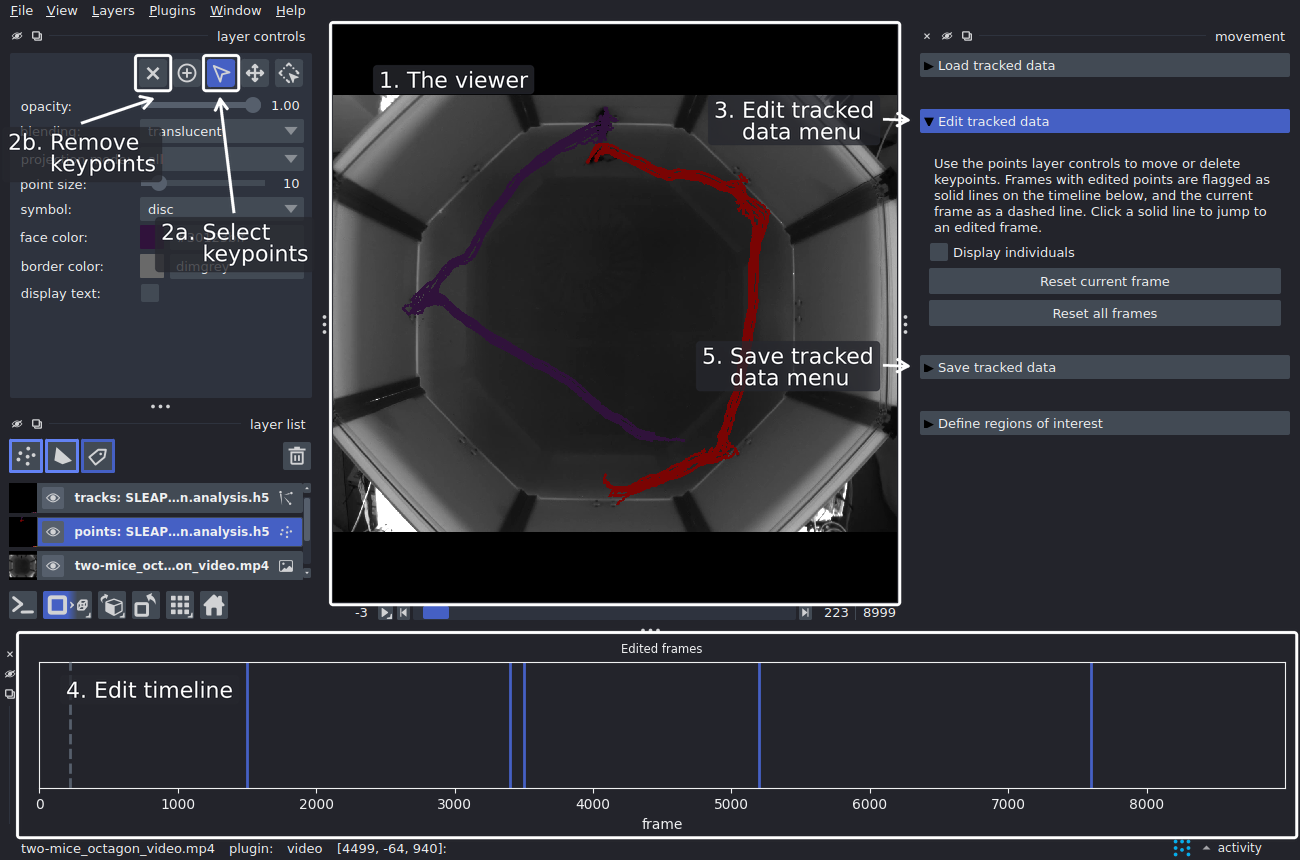
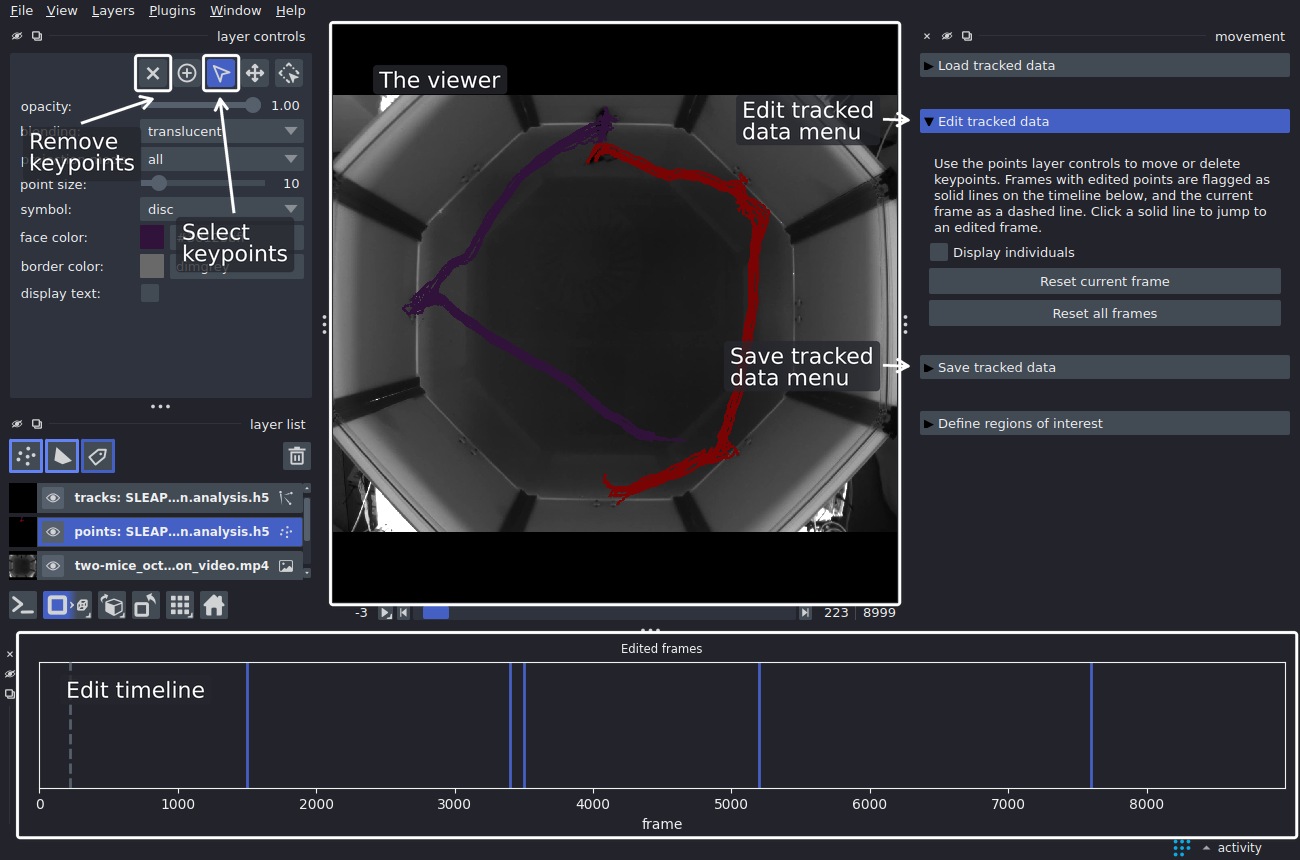
removing numbers

diff --git a/docs/make_gui_screenshots.py b/docs/make_gui_screenshots.py
@@ -919,35 +919,35 @@ def edit_overview(out: Path) -> Path:
 
     controls = gui.layer_controls(points)
     labels = [
-        Label(gui.canvas, "1. The viewer", side="inside"),
+        Label(gui.canvas, "The viewer", side="inside"),
         # Below the buttons, one lower than the other so they do not overlap
         Label(
             gui.rect(controls.delete_button),
-            "2b. Remove\nkeypoints",
+            "Remove\nkeypoints",
             side="below",
             shift=-70,
         ),
         Label(
             gui.rect(controls.select_button),
-            "2a. Select\nkeypoints",
+            "Select\nkeypoints",
             side="below",
             gap=130,
             shift=15,
         ),
         Label(
             gui.rect(gui.section(EDIT_SECTION).toggleButton()),
-            "3. Edit tracked\ndata menu",
+            "Edit tracked\ndata menu",
             side="left",
             box=False,
         ),
         Label(
             gui.rect(gui.widget.edit_timeline_widget),
-            "4. Edit timeline",
+            "Edit timeline",
             side="inside",
         ),
         Label(
             gui.rect(gui.section(SAVE_SECTION).toggleButton()),
-            "5. Save tracked\ndata menu",
+            "Save tracked\ndata menu",
             side="left",
             box=False,
         ),
